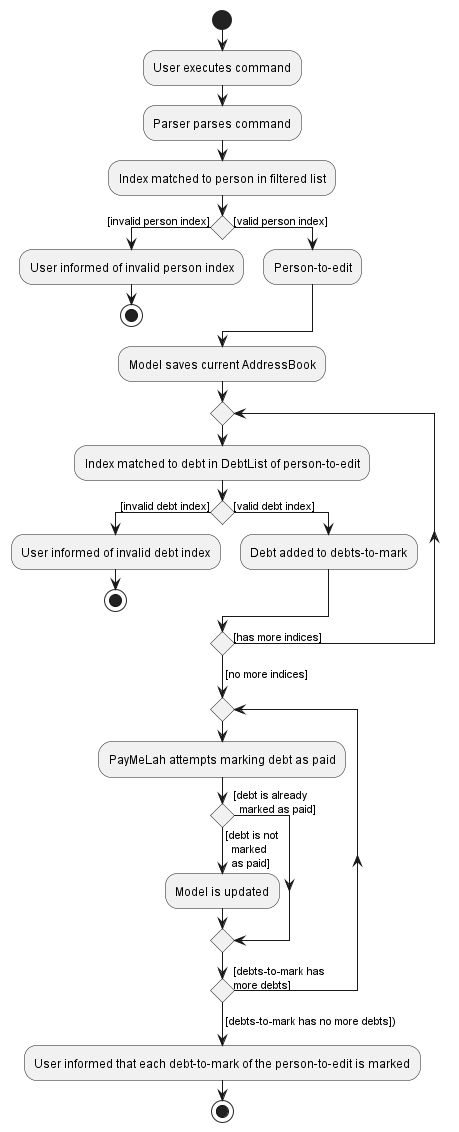
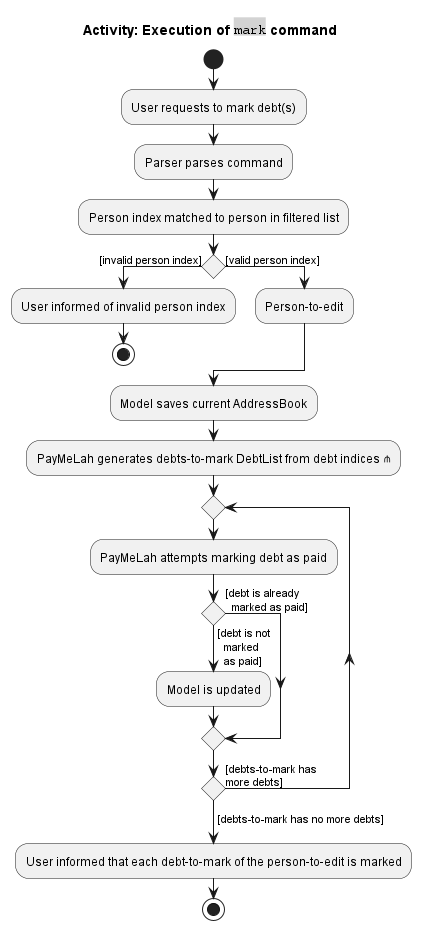
Update DG for mark/unmark

Changed region(s): [[0.0309, 0.0, 0.9572, 0.9978], [0.7102, 0.8108, 0.7411, 0.8419], [0.0618, 0.3118, 0.0926, 0.343]]

diff --git a/docs/DeveloperGuide.md b/docs/DeveloperGuide.md
@@ -266,13 +266,15 @@ When given a valid user index, the `MarkCommandParser`/`UnmarkCommandParser` wil
 
 To speed up marking `Debt` objects as paid (for example, when 1 person has paid for multiple debts in 1 shot) in the `DebtList` of 1 `Person`, the `MarkCommand` can take in multiple indices such that a replaced `Debt` object (only if it is unpaid) will be added to the `DebtList` for each mark operation.
 
-An example of the new objects in the internal state when a valid `mark` command provided by the user, `mark 1 debt/2 3`, has been parsed is given by the object diagram below.
+An example of the new objects in the internal state when a valid `mark` command provided by the user, `mark 1 debt/2 3`, has been parsed is given by the object diagrams below.
 
 <img src="images/MarkObjectDiagram.png" width="450" />
+<img src="images/MarkObjectAfterDiagram.png" width="450" />
 
-The activity diagram below details all the possible behaviour of PayMeLah when a user inputs a valid `mark` command.
+The activity diagrams below detail the behaviour of PayMeLah when a user inputs a `mark` command of valid syntax to be executed.
 
 <img src="images/MarkActivityDiagram.png" width="450" />
+<img src="images/MarkActivityDiagramRake.png" width="450" />
 
 ### Undo feature: `undo`
 
